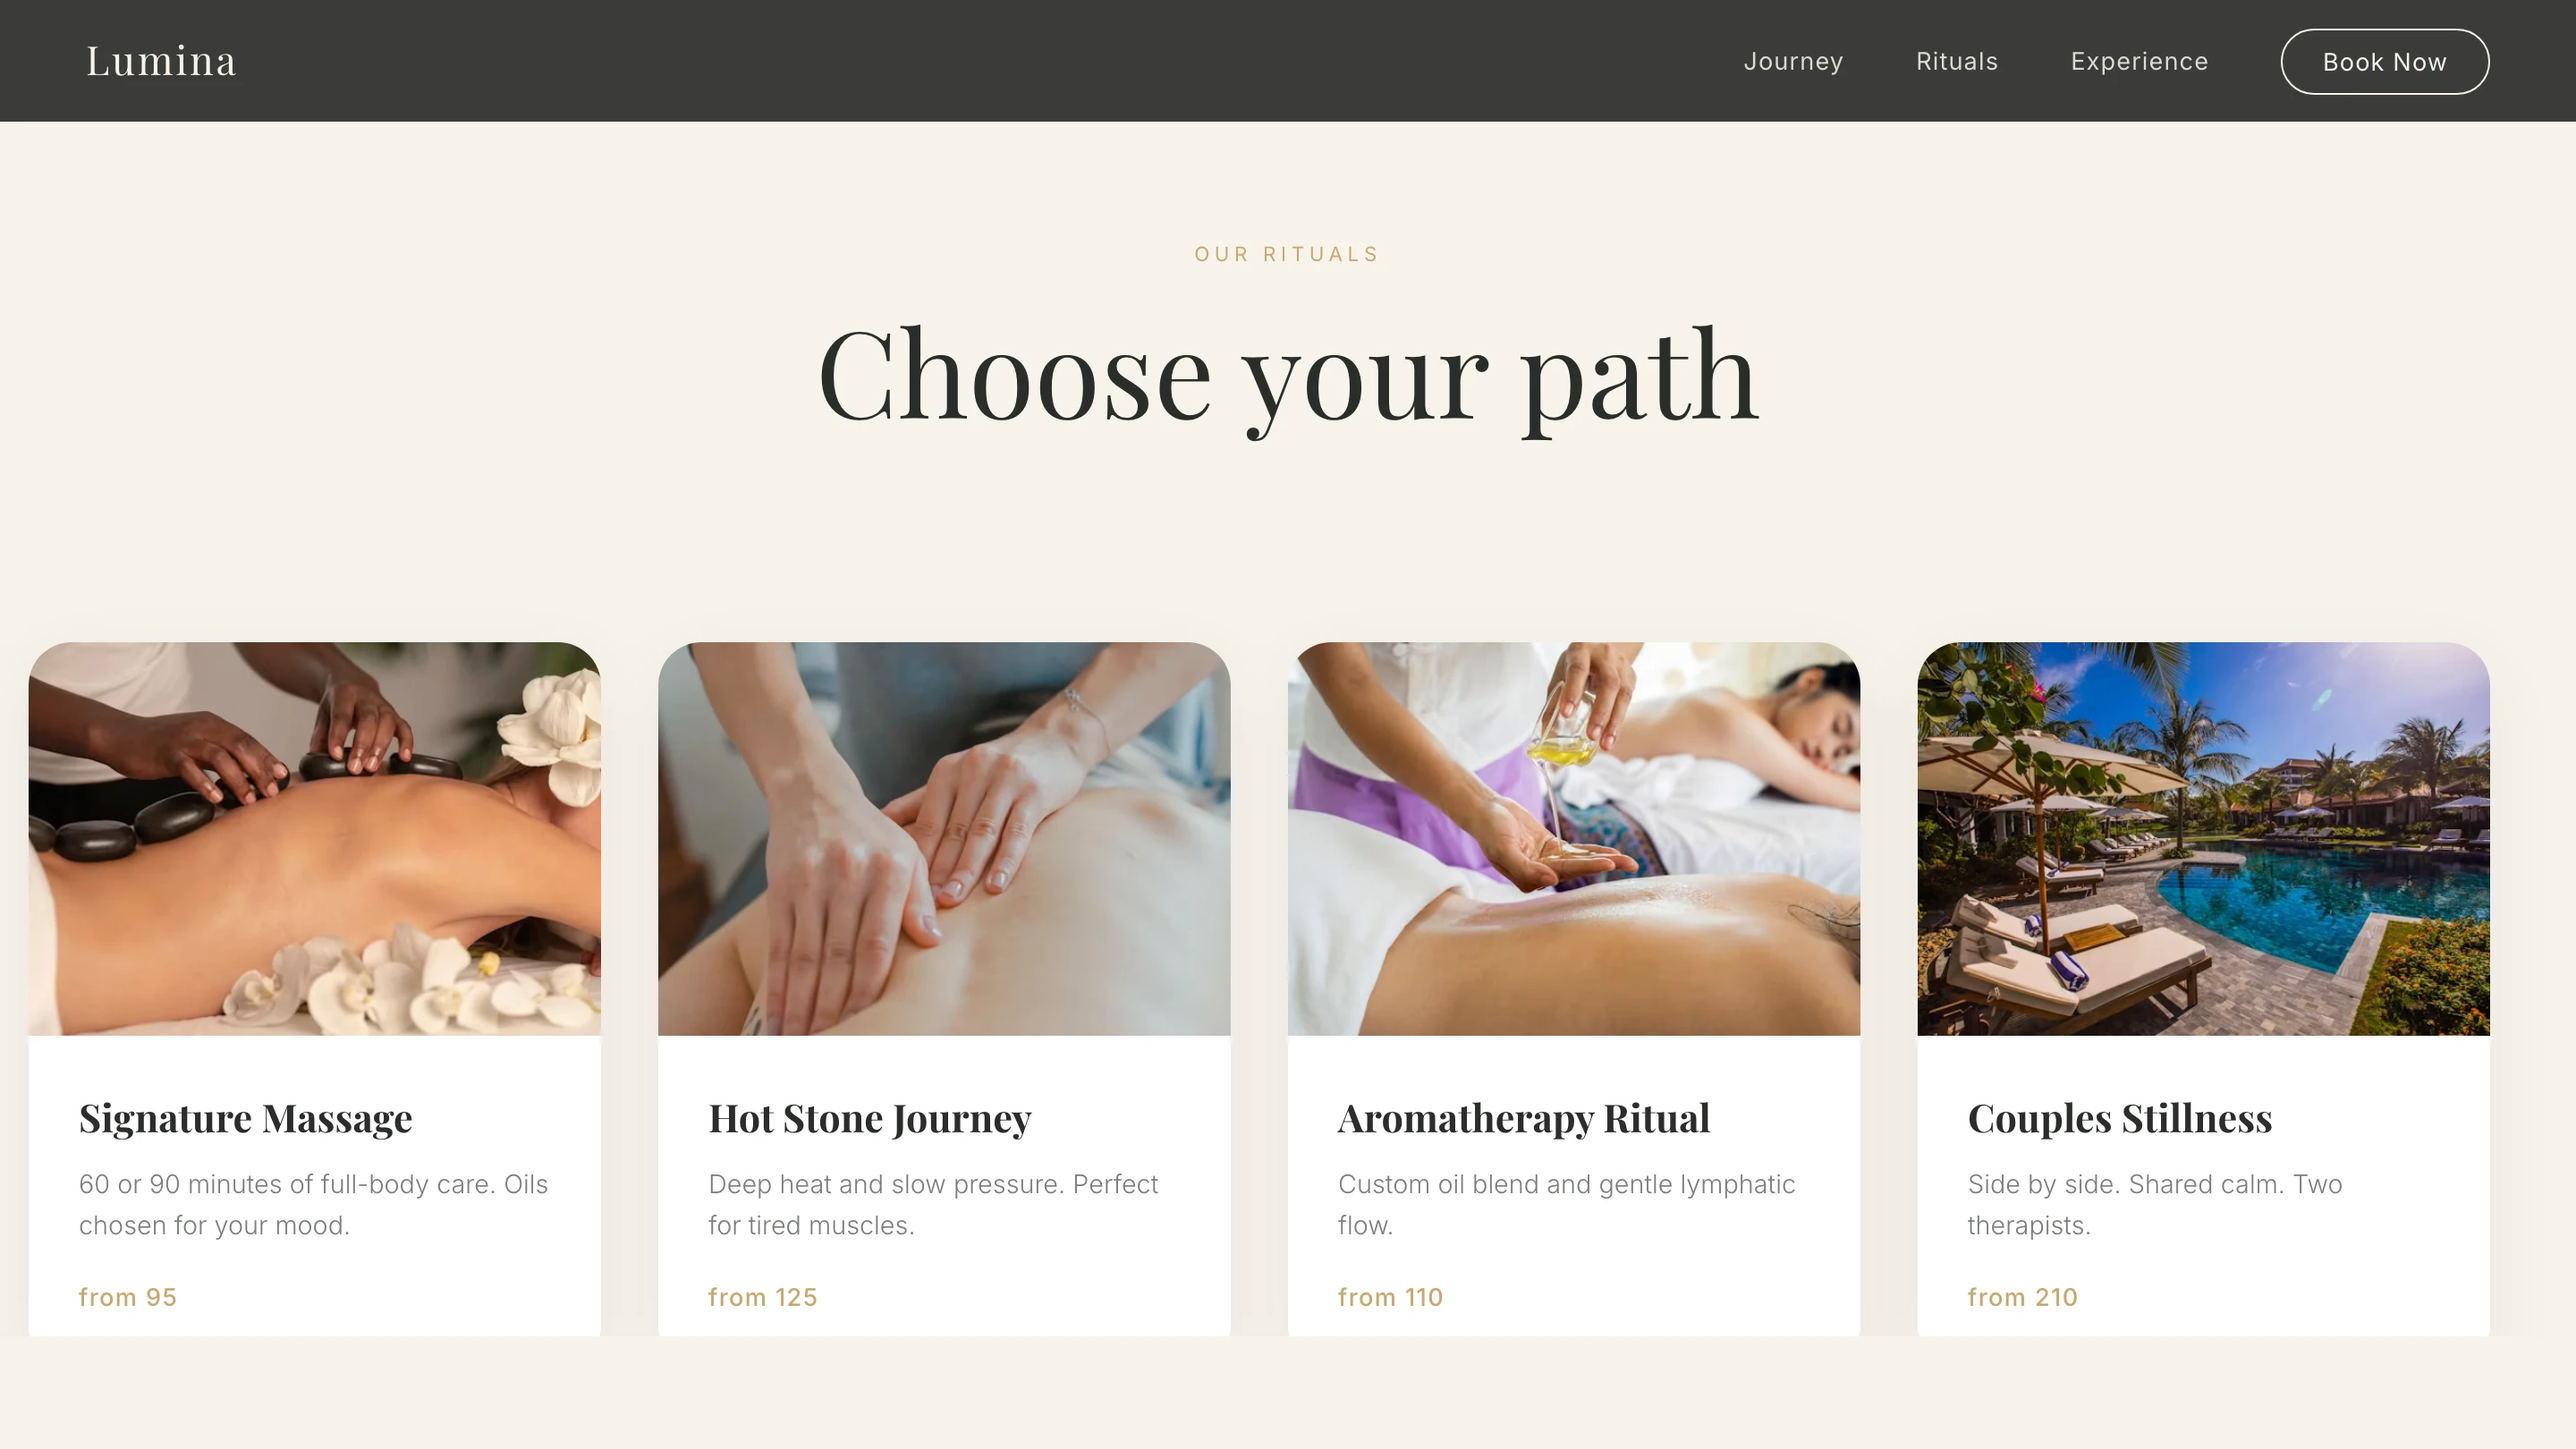
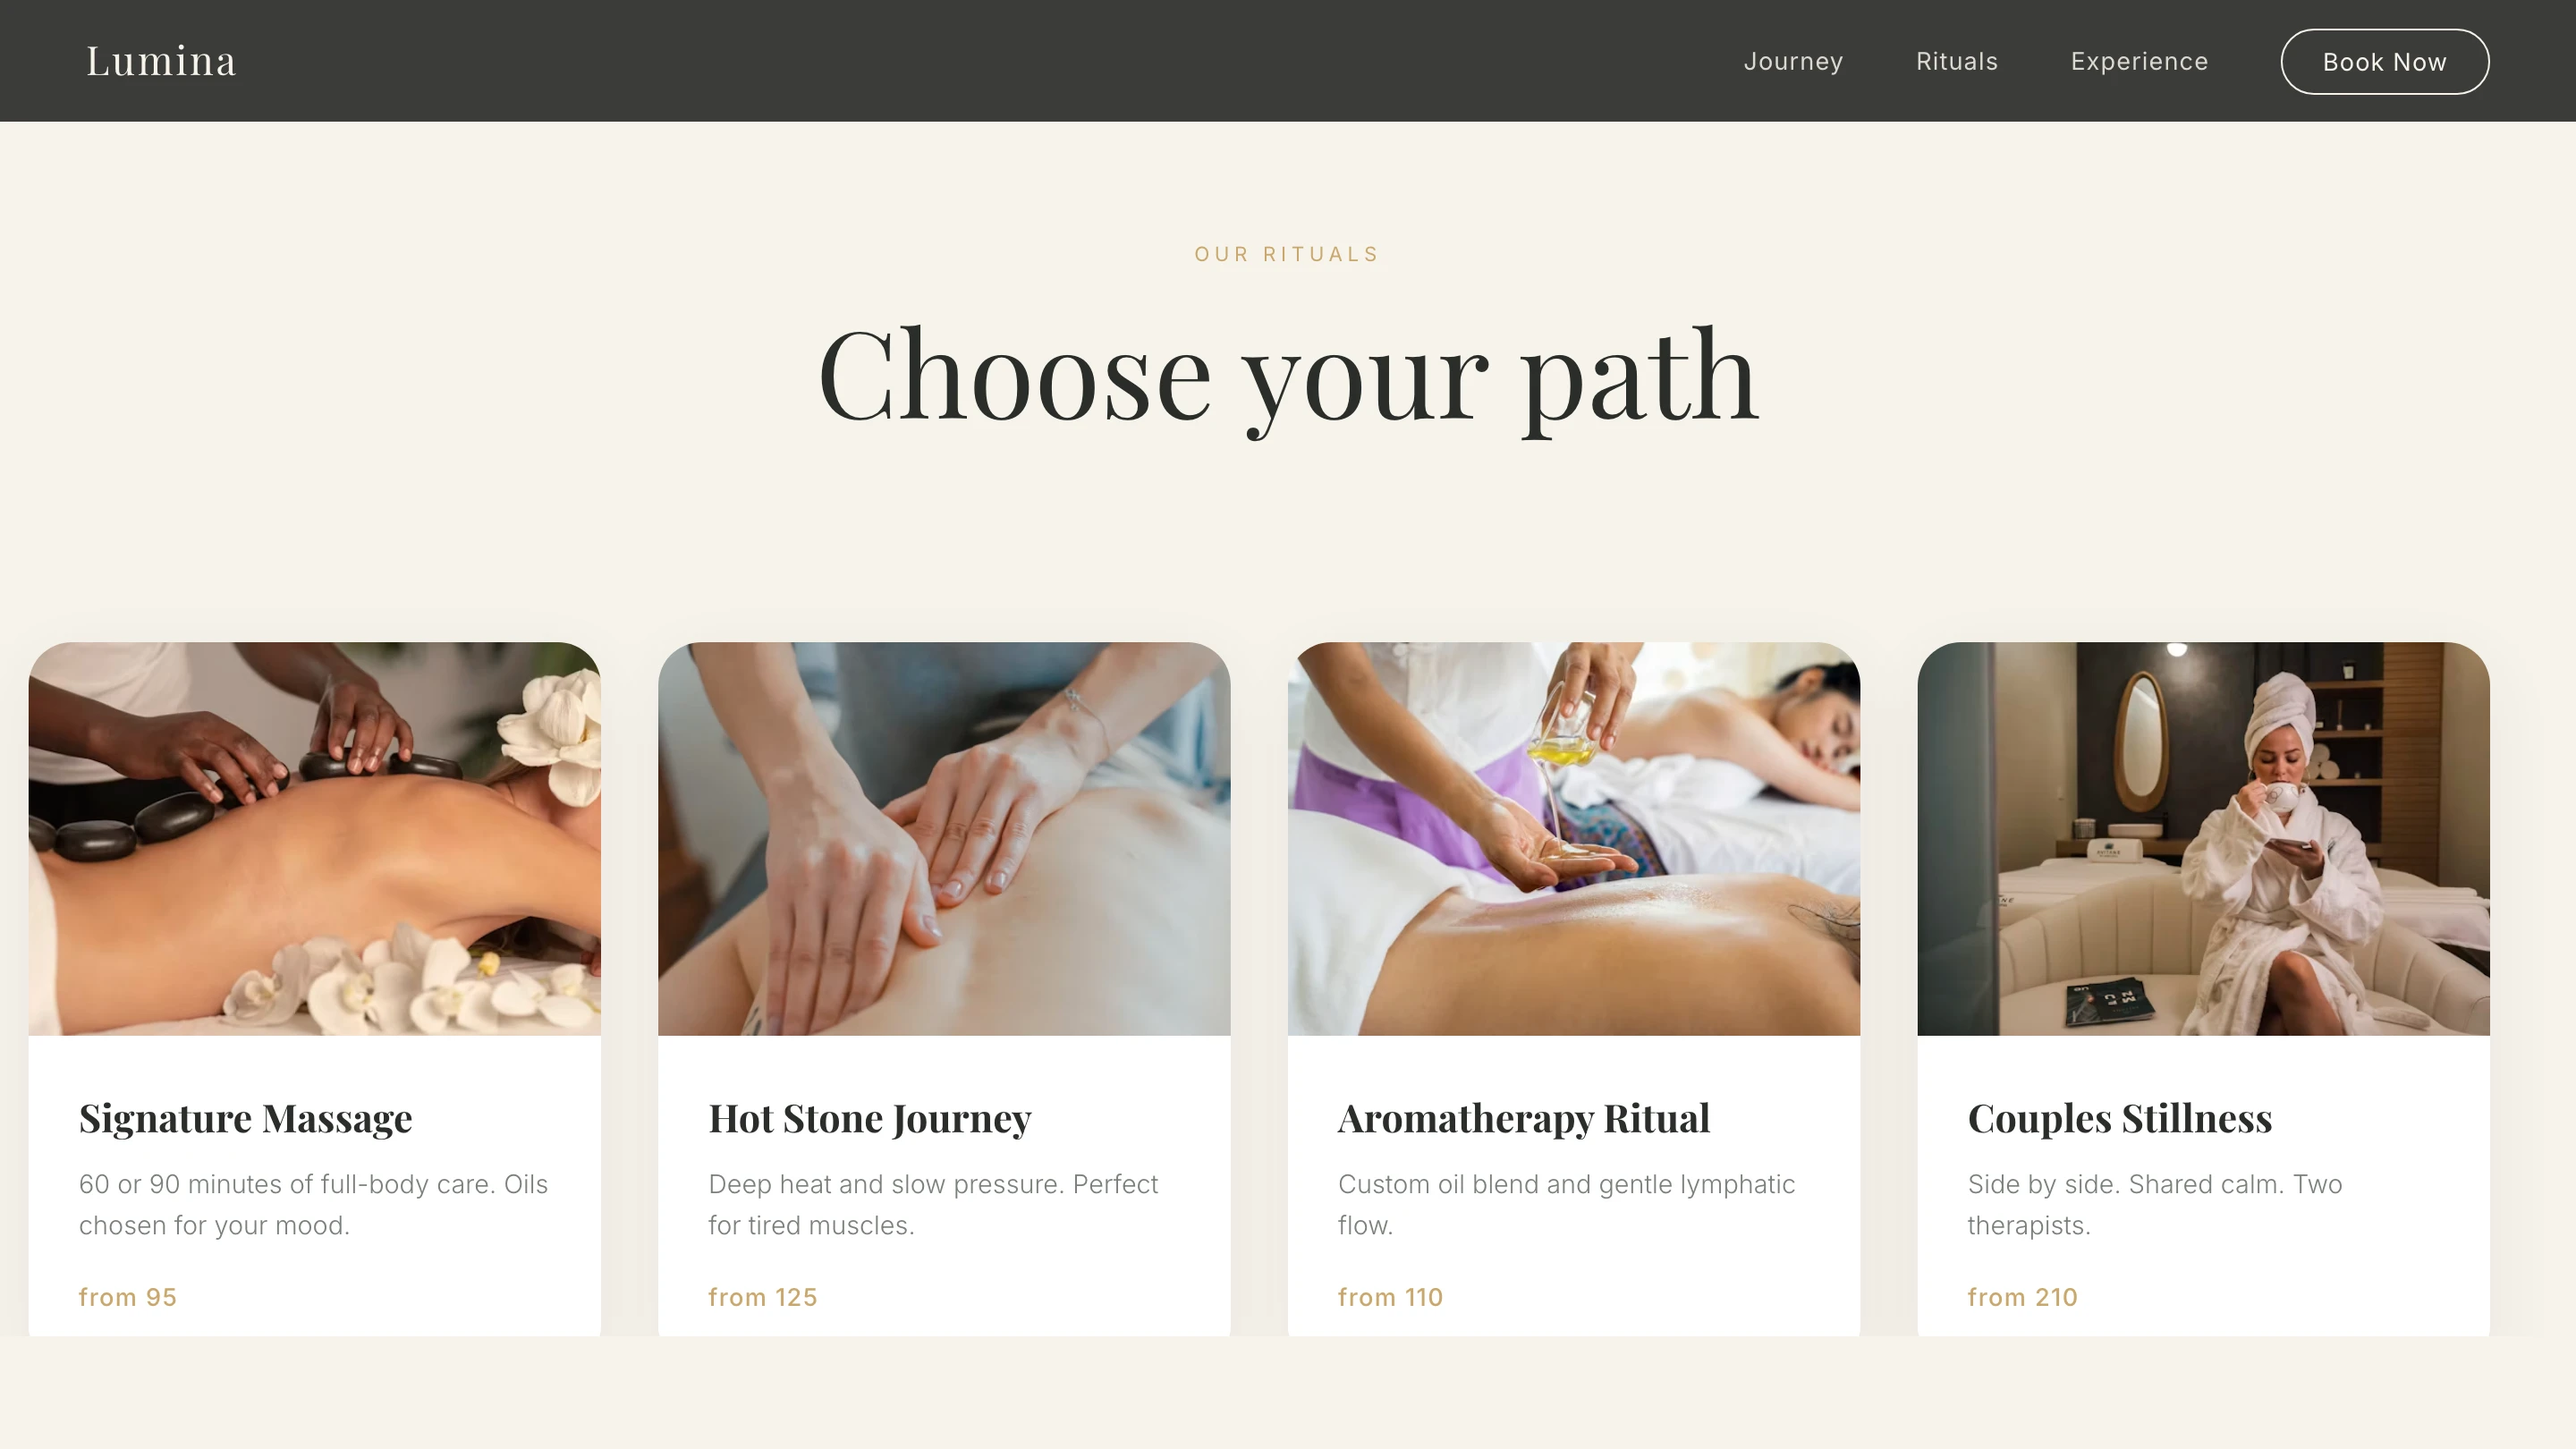
Add Lumina Spa as case study 08
The only entry in `cases` with no client behind it, and the overview says so in
its first sentence. It earns a place because scroll-choreographed motion is the
one skill nothing else in the list demonstrates.

Its metrics are measured rather than framed as business outcomes — 10.8 KB of
wire weight, zero build steps, ten scroll-driven sections. An invented result
sitting beside Racha's real ones would cost more credibility than the entry is
worth.

Also refreshes the rituals screenshot: the Couples Stillness card image was a
saturated blue resort pool, replaced upstream with a warm spa interior.

Changed region(s): [[0.7188, 0.4321, 0.9688, 0.7407]]

diff --git a/app/data.ts b/app/data.ts
@@ -688,6 +688,43 @@ export const cases: CaseStudy[] = [
       code: "https://github.com/Taninwat-55/rachabeautywellness",
     },
   },
+  // The only entry here with no client behind it, and it says so in the first
+  // sentence. Everything else on this page answers "would you ship for me"; this
+  // one answers "can you do motion work", which nothing else in the list shows.
+  // Its metrics are measured rather than framed as outcomes for that reason — an
+  // invented business result sitting beside Racha's real ones would cost more
+  // credibility than the entry is worth.
+  {
+    id: "lumina",
+    n: "08",
+    tag: "Motion & Craft",
+    title: "Lumina Spa",
+    sub: "A self-initiated scroll-choreography piece: ten animated sections, no build step, 10.8 KB over the wire.",
+    images: [
+      "/assets/lumina/lumina-hero.webp",
+      "/assets/lumina/lumina-arrival.webp",
+      "/assets/lumina/lumina-rituals.webp",
+      "/assets/lumina/lumina-experience.webp",
+    ],
+    overview:
+      "A landing page for a spa that does not exist. No client, no brief — I wanted to build the kind of scroll-choreographed site that usually arrives as a framework plus a few hundred kilobytes of JavaScript, and find out how far plain HTML, CSS and two libraries would get instead. Ten sections move with the scroll: a layered hero, a pinned arrival, oil cards, hand and stone compositions, water ripples, a horizontal ritual carousel and a sequential benefit reveal.",
+    challenge:
+      "Scroll animation is where responsive layout quietly breaks. The techniques that read as premium on a desktop — pinned sections, fixed viewport heights, multi-column grids — are the same ones that strand content off-screen on a phone, and they fail silently: nothing throws, the text is simply unreachable. Holding the whole thing to three static files with no build step meant every fix had to be a layout decision rather than a new dependency.",
+    stackWhy:
+      "GSAP with ScrollTrigger for scrubbed timelines and pinning, because CSS scroll-driven animations still cannot express scroll-linked easing reliably across browsers. Lenis for smooth scroll, with its scroll event wired into ScrollTrigger.update so the two share one scroll position instead of fighting over two. Both from CDN — no install, no bundler, no lockfile.",
+    engineering:
+      "A responsive audit turned up three real bugs, two of them the same mistake. A position: sticky element taller than the viewport pins at top: 0 and can never scroll its own bottom into view, so both pinned sections stranded their lower content below the fold on phones; the fix was to unpin them under 1100px and let them flow. The benefit list declared a two-column grid but had three children, so auto-placement dropped every paragraph into the 60px number gutter and wrapped it one word per line. Full-height sections moved to 100dvh with a 100vh fallback — except the four values the pinning maths reads, which stay in vh so the sticky range cannot reflow mid-scroll.",
+    metrics: [
+      { v: "10.8 KB", k: "Total page weight" },
+      { v: "Zero", k: "Build steps" },
+      { v: "10", k: "Scroll-driven sections" },
+    ],
+    stack: ["HTML", "CSS", "JavaScript", "GSAP", "ScrollTrigger", "Lenis"],
+    links: {
+      demo: "https://lumina-spa-sample.netlify.app",
+      code: "https://github.com/Taninwat-55/lumina-spa",
+    },
+  },
 ];
 
 // ─── SERVICES ─────────────────────────────────────────────────────────────────
